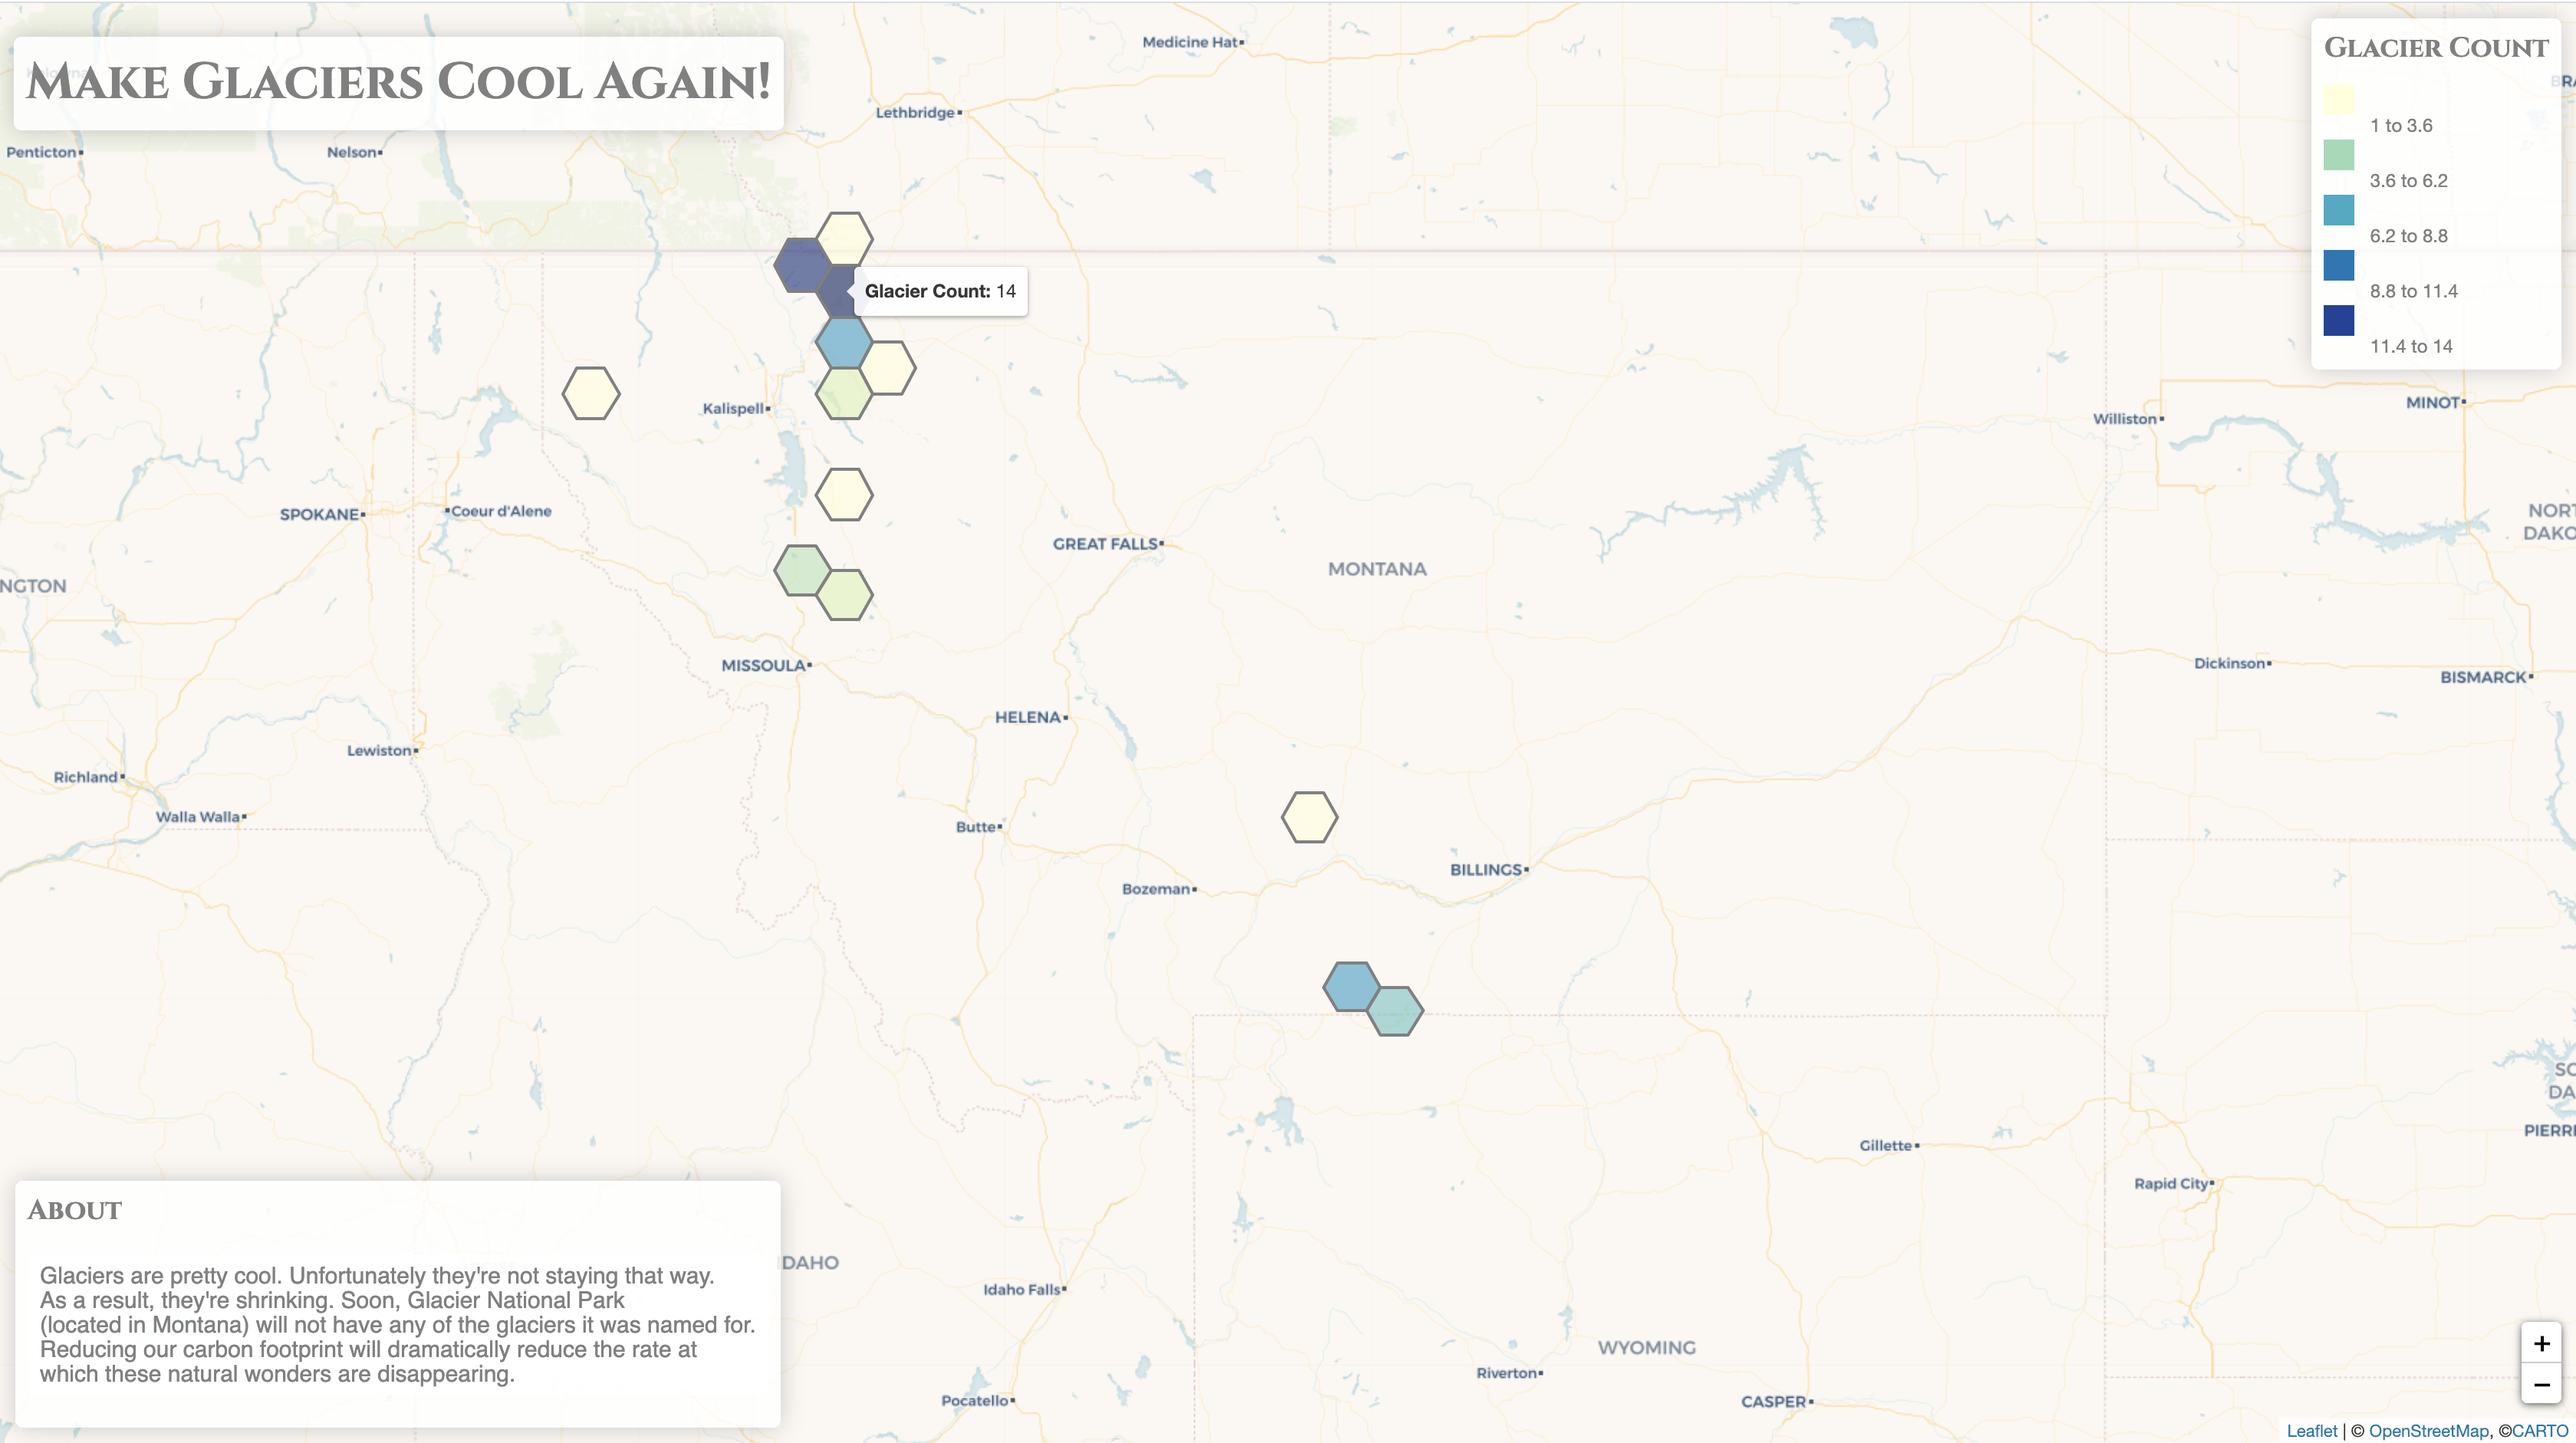
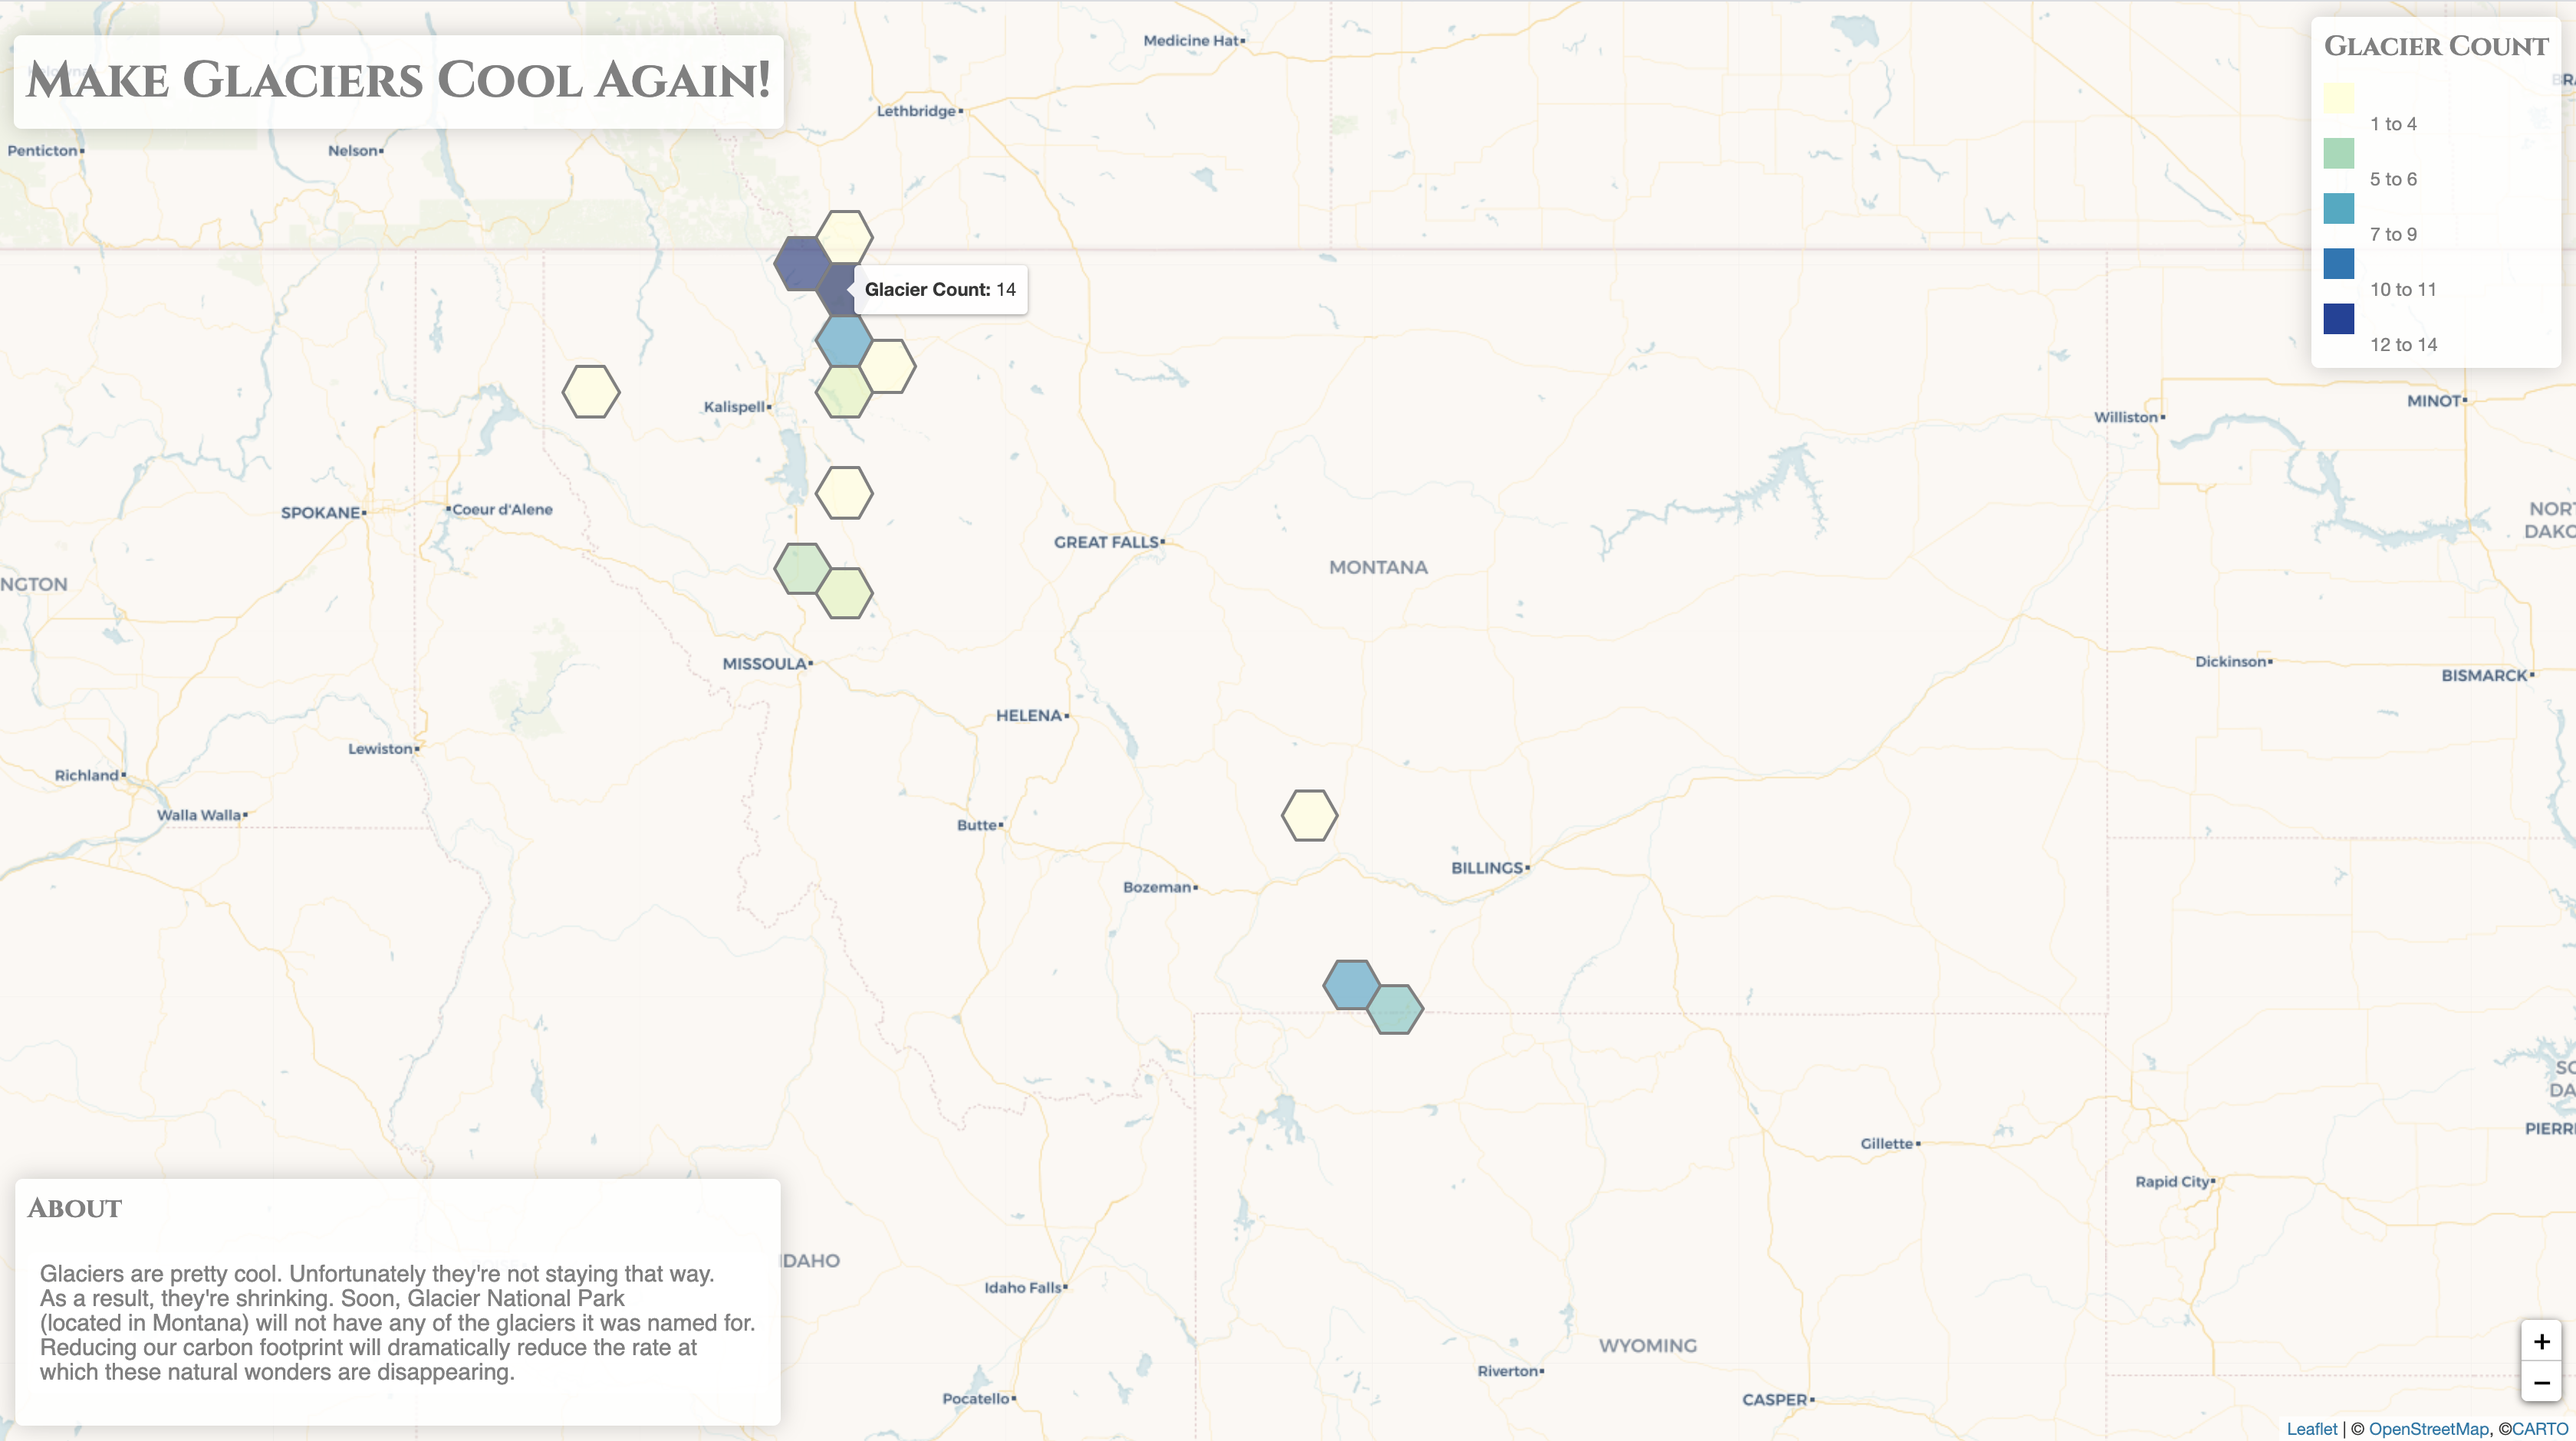
adjust legend

diff --git a/mt-glacier-hexgrid.html b/mt-glacier-hexgrid.html
@@ -183,20 +183,21 @@
                 var div = L.DomUtil.create('div', 'legend');
                 let legendTitle = "Glacier Count";
 
-                // first append an <h3> tag to the div holding the current attribute
-                // and norm values (i.e., the mapped phenomena)
+                // first append an <h3> tag to the div 
                 div.innerHTML = "<h3>" + legendTitle + "</h3>";
 
-                // Add a select drop down. The function is defined below and passes the value in the drop down.
+                // Add color coded legend items
                 div.innerHTML +=
-                    `<span style="background: ${colorize(breaks[0])}"></span> <br>${breaks[0]} to ${breaks[1]}<br>
-                    <span style="background: ${colorize(breaks[1])}"></span> <br>${breaks[1]} to ${breaks[2]}<br>
-                    <span style="background: ${colorize(breaks[2])}"></span> <br>${breaks[2]} to ${breaks[3]}<br>
-                    <span style="background: ${colorize(breaks[3])}"></span> <br>${breaks[3]} to ${breaks[4]}<br>
-                    <span style="background: ${colorize(breaks[4])}"></span> <br>${breaks[4]} to ${breaks[5]}`;
-
-                console.log(breaks)
-
+                    `<span style="background: ${colorize(breaks[0])}"></span> <br>${Math.round(breaks[0])} to
+                    ${Math.round(breaks[1])}<br>
+                    <span style="background: ${colorize(breaks[1])}"></span> <br>${Math.round(breaks[1]) + 1} to
+                    ${Math.round(breaks[2])}<br>
+                    <span style="background: ${colorize(breaks[2])}"></span> <br>${Math.round(breaks[2] + 1)} to
+                    ${Math.round(breaks[3])}<br>
+                    <span style="background: ${colorize(breaks[3])}"></span> <br>${Math.round(breaks[3]) + 1} to
+                    ${Math.round(breaks[4])}<br>
+                    <span style="background: ${colorize(breaks[4])}"></span> <br>${Math.round(breaks[4]) + 1} to
+                    ${breaks[5]}`;
 
                 // return the populated div to be added to the map
                 return div;
@@ -204,7 +205,9 @@
 
             // add the legend to the map
             legend.addTo(map);
+
         } //end drawLegend
+
 
         function drawAbout() {
             // create a new Leaflet control object, and position it bottom left
@@ -219,11 +222,10 @@
                 var div = L.DomUtil.create('div', 'legend');
                 let legendTitle = "About";
 
-                // first append an <h3> tag to the div holding the current attribute
-                // and norm values (i.e., the mapped phenomena)
+                // first append an <h3> tag 
                 div.innerHTML = "<h3>" + legendTitle + "</h3>";
 
-                // Add a select drop down. The function is defined below and passes the value in the drop down.
+                // Add description of map
                 div.innerHTML +=
                     `<p>Glaciers are pretty cool. Unfortunately they're not staying that way. <br>As a result, they're
                         shrinking. Soon, Glacier National Park <br>(located in Montana) will not have any of the
@@ -235,12 +237,15 @@
 
             // add the legend to the map
             legend.addTo(map);
+
         } //end drawAbout
 
+        // add zoom control 
         L.control.zoom({
             position: 'bottomright',
             fillColor: 'whitesmoke',
         }).addTo(map)
+
     </script>
 </body>
 
